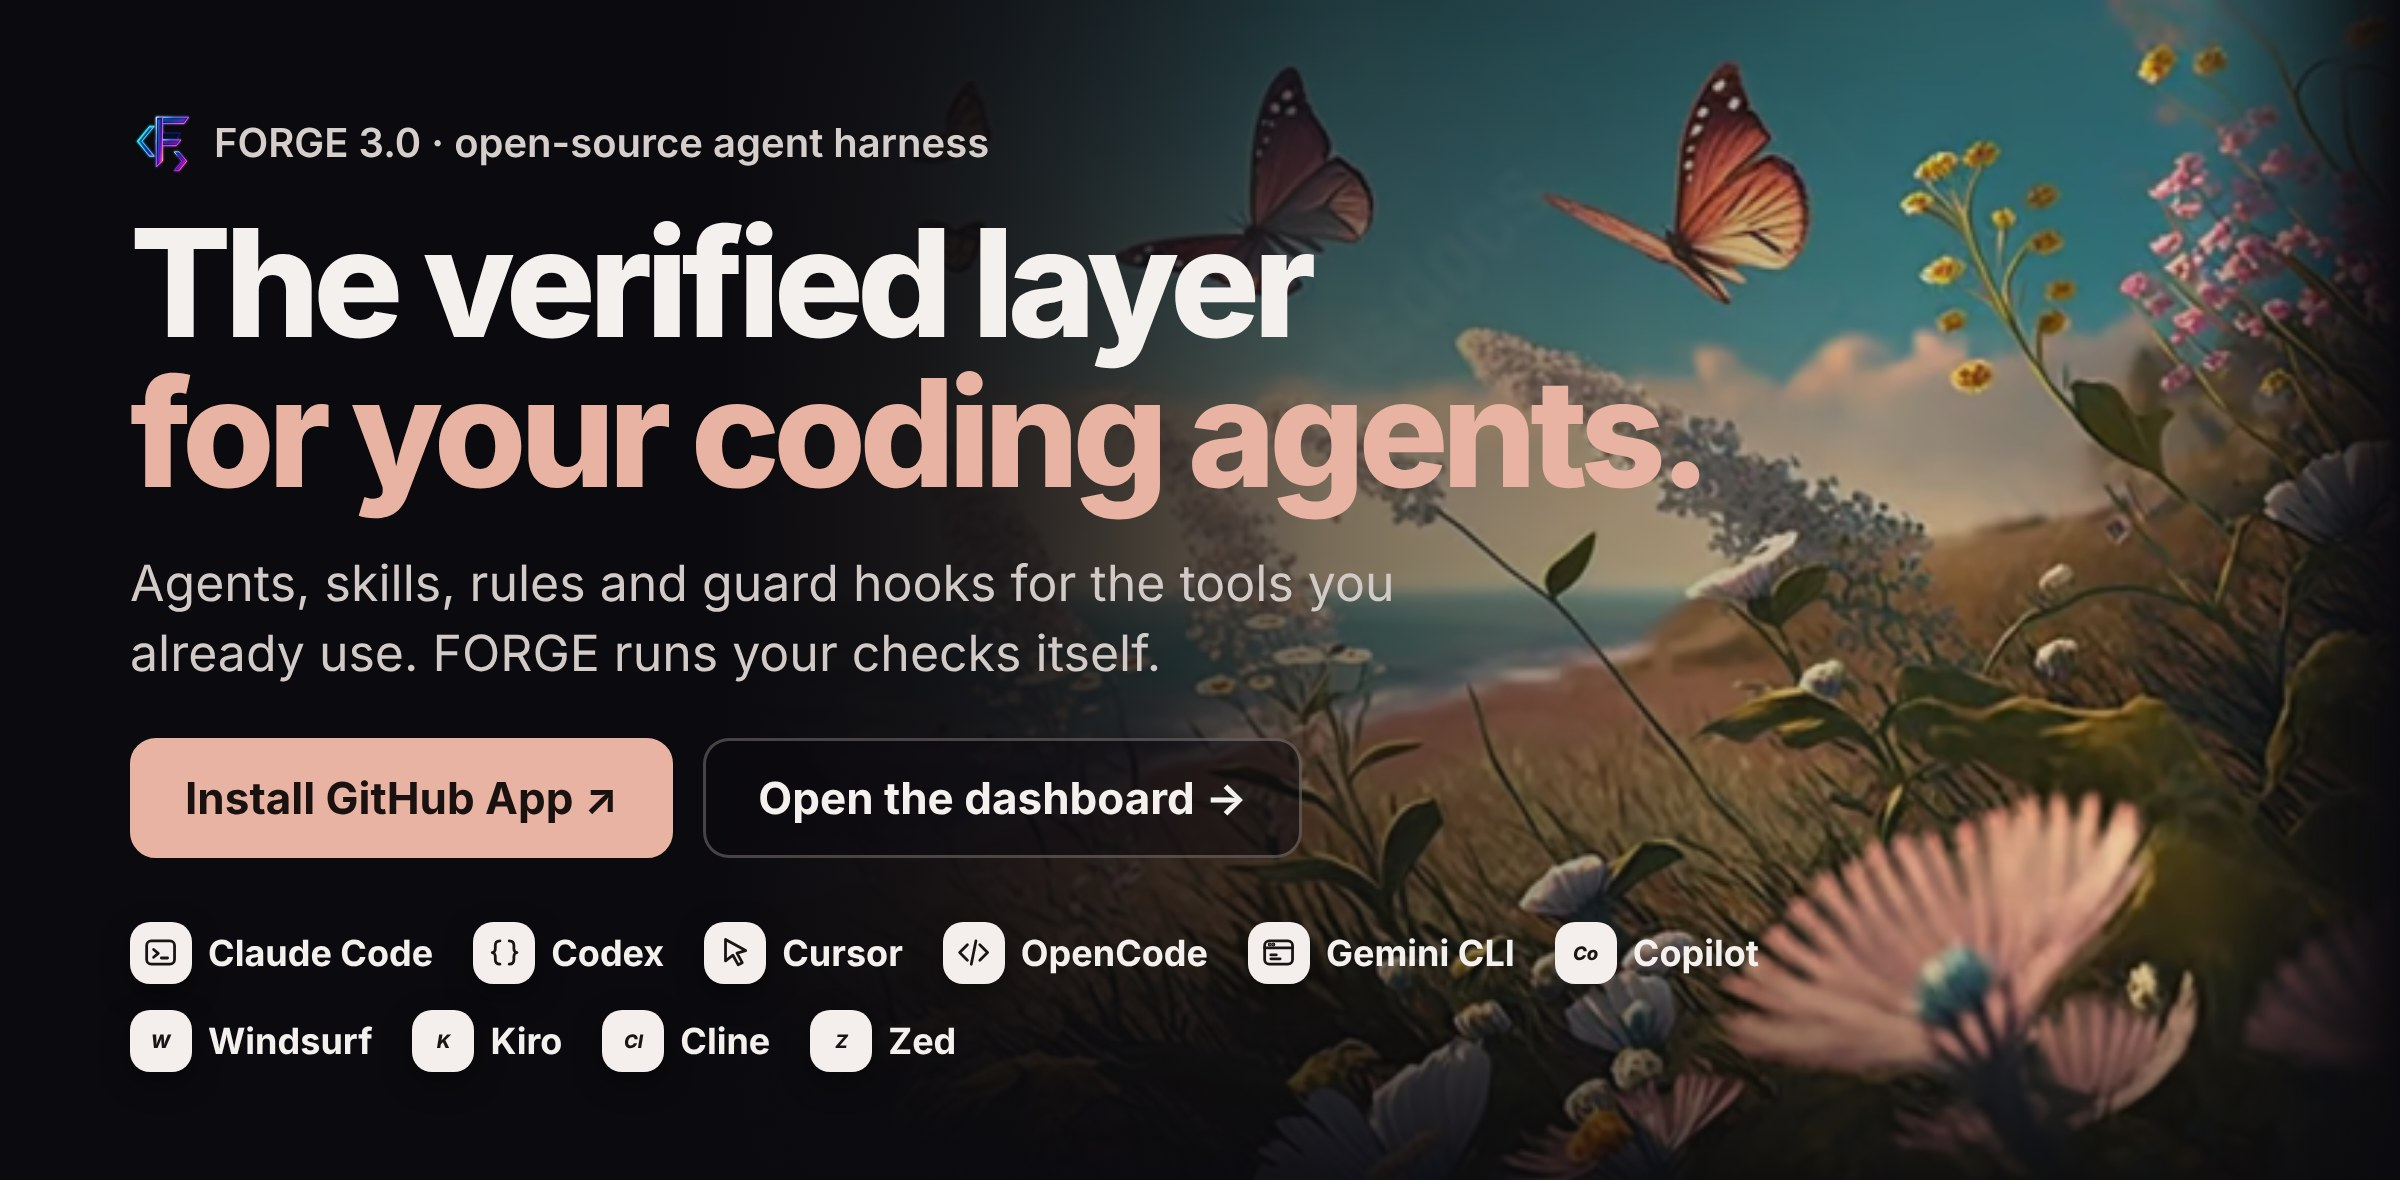
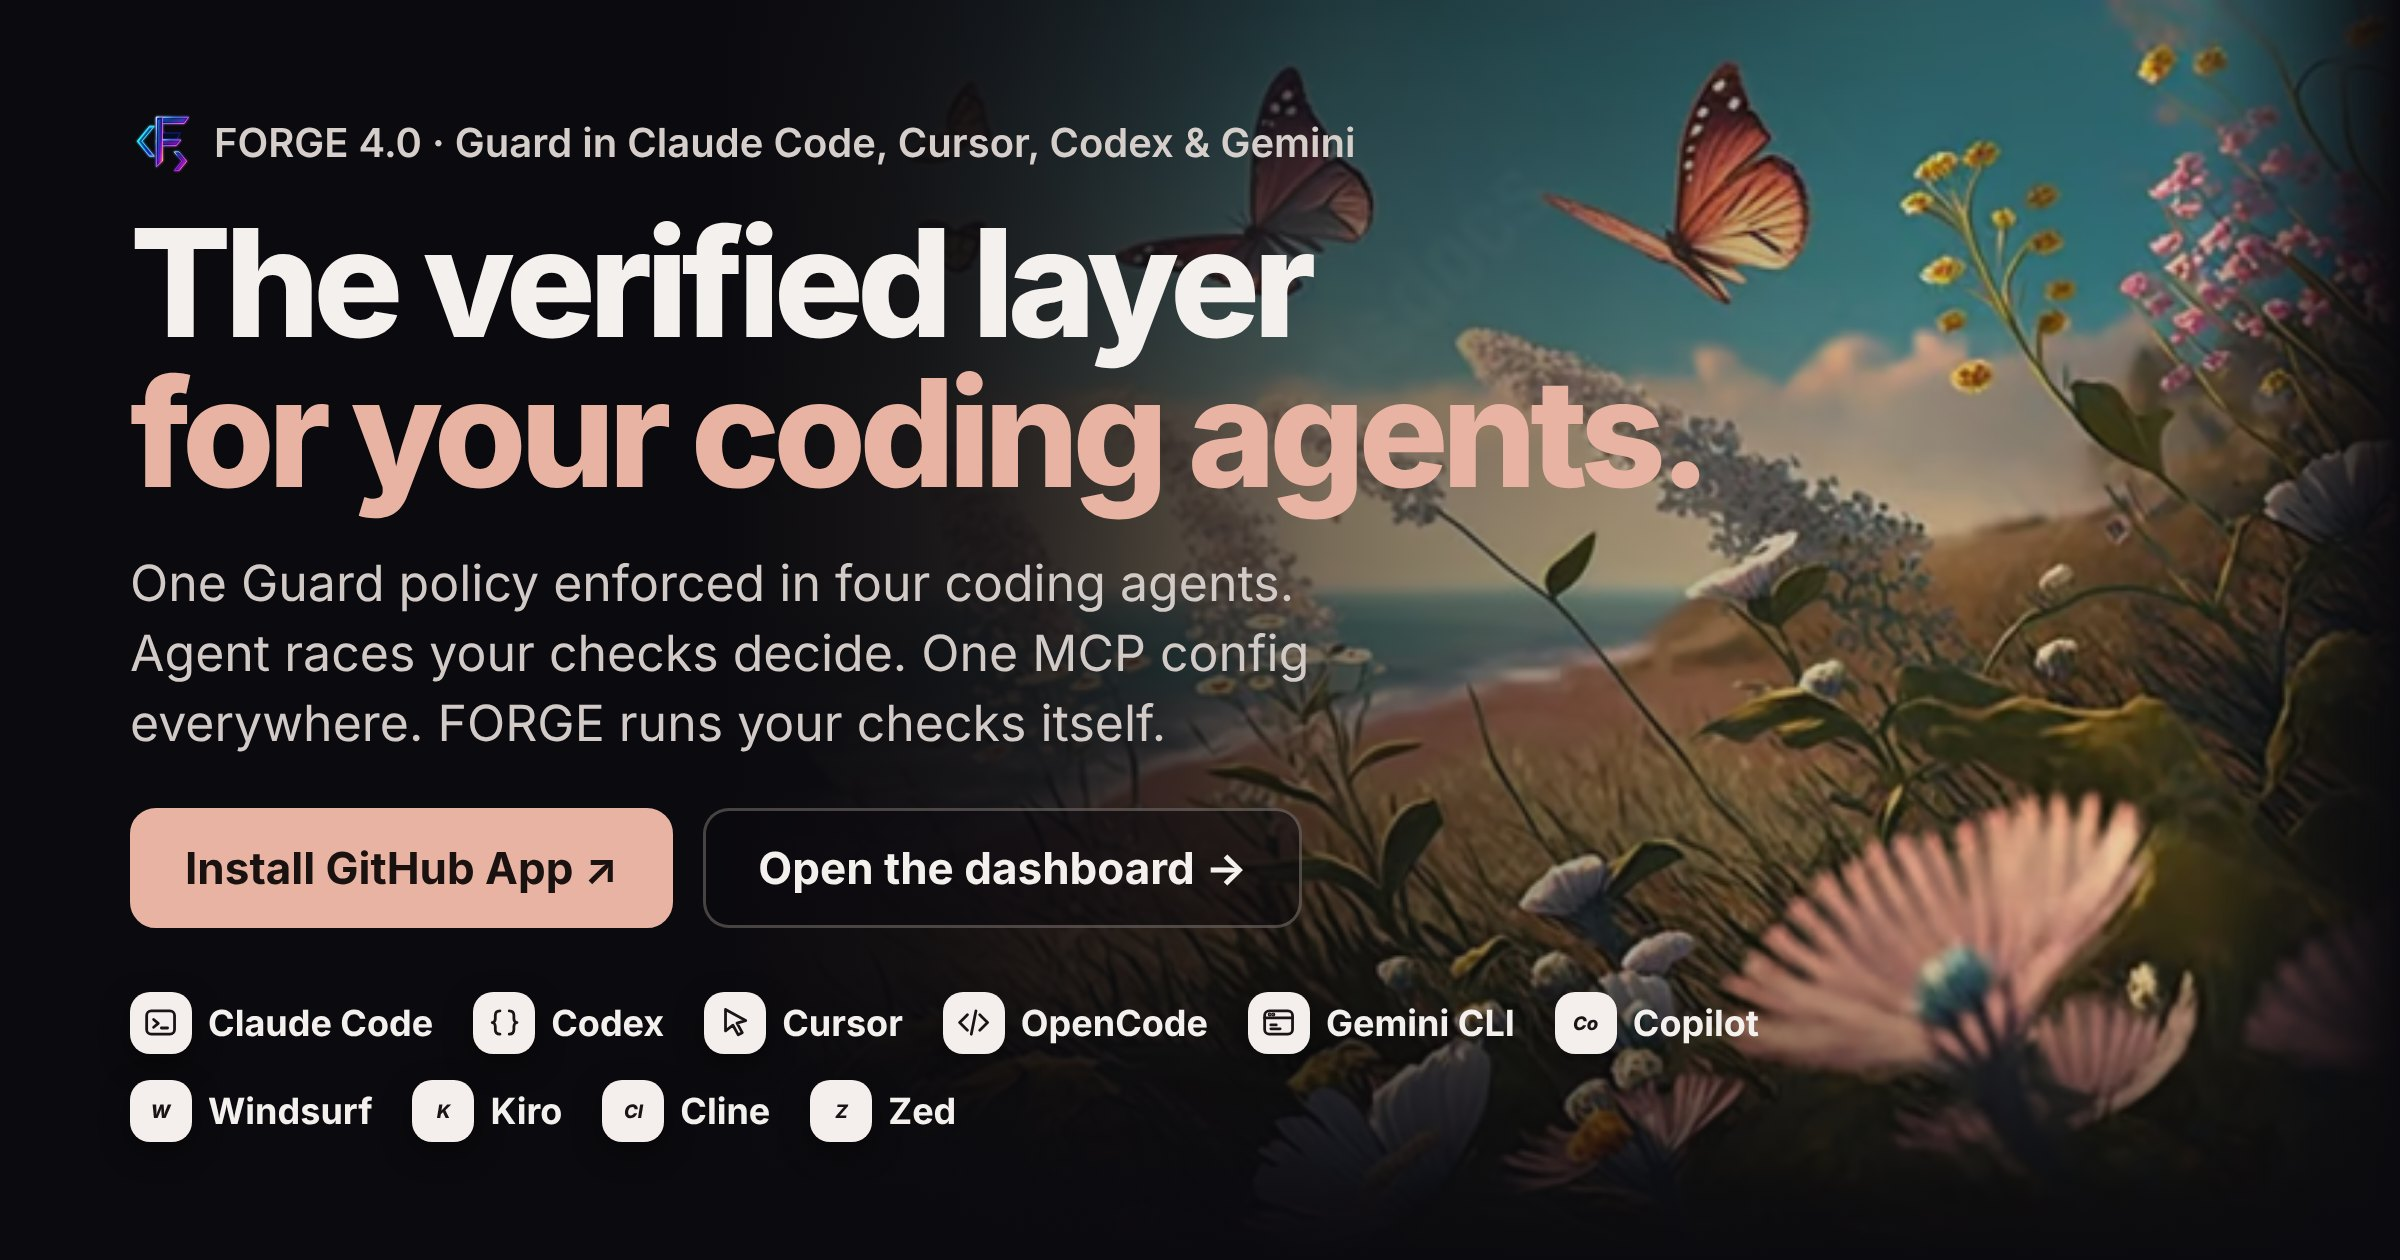
docs: README for 4.0, with a highlights grid, a 60-second quick start and a new hero
- The hero image says 4.0 and leads with Guard in four tools
- Highlights grid linking to every major feature
- "Quick start in 60 seconds" with status, guard, consult, mcp and race
- The section nav covers Guard, race, MCP and context
- The MCP tool table lists the memory, Shield, Guard, consult and
  context tools, and states the one write the server can do

Claude-Session: https://claude.ai/code/session_017br8UhEu5cmXZumuQXKyPZ

Changed region(s): [[0.0312, 0.061, 1.0, 1.0], [0.875, 0.0305, 0.9062, 0.0915]]

diff --git a/README.md b/README.md
@@ -1,7 +1,7 @@
 <!-- FORGE: the verified layer for your coding agents -->
 
 <p align="center">
-  <a href="https://forge-ecc.vercel.app/"><img src="docs/forge-hero.jpg" alt="FORGE: the verified layer for your coding agents. 41 agents, 51 skills, 60 Shield rules, 10 harnesses." width="100%" /></a>
+  <a href="https://forge-ecc.vercel.app/"><img src="docs/forge-hero.jpg" alt="FORGE 4.0: the verified layer for your coding agents. One Guard policy enforced in Claude Code, Cursor, Codex and Gemini CLI. 49 agents, 76 skills, 60 Shield rules, 10 harnesses." width="100%" /></a>
 </p>
 
 <p align="center">
@@ -49,12 +49,14 @@
 
 <p align="center">
   <a href="#install-forge">Install</a> ·
+  <a href="#quick-start-in-60-seconds">Quick start</a> ·
   <a href="#why-forge">Why FORGE</a> ·
-  <a href="#how-forge-works">How it works</a> ·
-  <a href="#harness-scorecard">Scorecard</a> ·
+  <a href="#runtime-hooks-guard-and-memory">Guard</a> ·
+  <a href="#agent-race">Agent race</a> ·
+  <a href="#mcp-sync">MCP sync</a> ·
+  <a href="#context-budget">Context</a> ·
   <a href="#forge-shield">Shield</a> ·
   <a href="#verified-loop">Verified loop</a> ·
-  <a href="#instincts-and-continuous-learning">Instincts</a> ·
   <a href="#github-app-and-control-center">Control Center</a> ·
   <a href="#cli-reference">CLI</a>
 </p>
@@ -78,6 +80,24 @@ Install once, and every session in every harness follows the same process, with 
 
 FORGE is MIT-licensed and local-first. The CLI, hooks, Shield, memory and loop run entirely on your machine. The GitHub App and the hosted Control Center are optional.
 
+<table>
+  <tr>
+    <td width="33%" valign="top"><b>⛨ <a href="#runtime-hooks-guard-and-memory">Guard everywhere</a></b><br /><sub>One policy, enforced as native hooks in Claude Code, Cursor, Codex and Gemini CLI. Destructive commands, secret reads and unverified stops are blocked, and one log names the agent behind each block.</sub></td>
+    <td width="33%" valign="top"><b>🏁 <a href="#agent-race">Agent race</a></b><br /><sub>The same task for Claude, Codex and Gemini in isolated worktrees. Your checks rank them, and an agent that deletes tests can't win.</sub></td>
+    <td width="33%" valign="top"><b>✓ <a href="#verified-loop">Verified loop</a></b><br /><sub>Agents iterate until FORGE's own check run passes, with a receipt for every iteration and an integrity gate against gamed tests.</sub></td>
+  </tr>
+  <tr>
+    <td valign="top"><b>⇄ <a href="#mcp-sync">MCP sync</a></b><br /><sub>One pinned MCP config written for 7 tools in each tool's own format. Secrets stay as environment references.</sub></td>
+    <td valign="top"><b>◔ <a href="#context-budget">Context budget</a></b><br /><sub>What each tool loads before your first prompt, file by file, with the fix for each finding and a CI gate.</sub></td>
+    <td valign="top"><b>🛡 <a href="#forge-shield">Shield</a></b><br /><sub>60 rules for agent permissions, hooks, MCP, prompt injection, secrets and CI across 11 tools, with SARIF output.</sub></td>
+  </tr>
+  <tr>
+    <td valign="top"><b>📊 <a href="#harness-scorecard">Scorecard</a></b><br /><sub>A deterministic 0–90 readiness score where every point cites its evidence. Works as a CI gate.</sub></td>
+    <td valign="top"><b>🧠 <a href="#instincts-and-continuous-learning">Memory and instincts</a></b><br /><sub>Handoffs, decisions and learned habits with provenance. Nothing reaches an agent until a person approves it.</sub></td>
+    <td valign="top"><b>🖥 <a href="#github-app-and-control-center">Control Center</a></b><br /><sub>Fleet view, scorecard, Shield, context, MCP, memory, loops and PR risk for every repository.</sub></td>
+  </tr>
+</table>
+
 | Included | Count | What it gives you |
 |---|---:|---|
 | Agents | **49** | Planning, review, security, build repair, testing, docs, architecture, data, ML, mobile, payments and MCP specialists |
@@ -92,7 +112,7 @@ FORGE is MIT-licensed and local-first. The CLI, hooks, Shield, memory and loop r
 | MCP sync | **7 harnesses** | One pinned MCP config written in each tool's own format, without copying secrets |
 
 <p align="center">
-  <a href="https://forge-ecc.vercel.app/app/"><img src="docs/control-center.jpg" alt="FORGE Control Center: readiness scorecard, Shield, setup health, pull request risk, handoffs, instincts and loop receipts" width="100%" /></a>
+  <a href="https://forge-ecc.vercel.app/app/"><img src="docs/control-center.jpg" alt="FORGE Control Center: readiness, Shield, setup, pull requests, Guard, context budget, MCP servers, next actions, handoffs, instincts and loop receipts" width="100%" /></a>
   <br /><sub>FORGE Control Center (sample data)</sub>
 </p>
 
@@ -151,6 +171,20 @@ npm link   # puts `forge` on your PATH
 
 `forge uninstall .` removes only the FORGE files you did not edit and FORGE's managed blocks and hooks. Your own files and settings stay. Add `--dry-run` to preview it.
 </details>
+
+## Quick start in 60 seconds
+
+After installing, these five commands show most of what FORGE does:
+
+```bash
+forge status                                     # one screen: install, Guard, context, MCP and what to do next
+forge guard check "git push --force origin main" # ask Guard before an agent tries it
+forge consult "add e2e tests for checkout"       # the agents, skills and MCP servers for this task
+forge mcp add context7 playwright                # pinned servers, written for every tool you use
+forge race --goal "fix the failing test" --check "npm test" --agents claude,codex
+```
+
+Inside an agent, the same features are slash commands (`/forge:race`, `/forge:guard`, `/forge:consult`, `/forge:context-budget`) and MCP tools (`forge_guard_check`, `forge_consult`, `forge_context_budget`).
 
 ## Why FORGE
 
@@ -345,7 +379,7 @@ Always-follow standards. `common/` covers evidence, testing, security, git and d
 
 ### Hooks
 
-Runtime enforcement in Claude Code. FORGE Guard checks every tool call before it runs:
+Runtime enforcement in Claude Code, Cursor, Codex and Gemini CLI. FORGE Guard checks every tool call before it runs, using one policy for all four:
 
 ```json
 { "guard": { "rules": [{ "id": "USER-NO-PROD-DB", "decision": "deny", "pattern": "psql .*prod" }] } }
@@ -1044,8 +1078,13 @@ The current MCP server exposes nine bounded, read-only tools:
 | `forge_git_intelligence` | Analyze Git changes and impact |
 | `forge_list_agents` | List built-in and workspace agent roles |
 | `forge_create_review_plan` | Create a draft engineering review plan |
+| `forge_memory_search` / `forge_memory_add` | Search and save project memory with provenance |
+| `forge_shield_scan` | Run Shield on the workspace |
+| `forge_guard_check` | Ask Guard whether a command or file access would be allowed |
+| `forge_consult` | Find agents, skills, commands, rules and MCP servers for a task |
+| `forge_context_budget` | Measure what each tool loads before the first prompt |
 
-MCP workspace paths are constrained to the configured workspace root. Hidden paths, generated/dependency directories, secret-like filenames and symlinks are excluded or rejected. Reads are bounded. The MCP server does not expose arbitrary shell execution, project-file writes, patch application or test execution.
+MCP workspace paths are constrained to the configured workspace root. Hidden paths, generated/dependency directories, secret-like filenames and symlinks are excluded or rejected. Reads are bounded. The MCP server does not expose arbitrary shell execution, patch application or test execution. The only write is `forge_memory_add`, which appends to `.forge/memory.json` and rejects credentials.
 
 Some workspace browsing/search operations require an explicit restricted-mode allowlist in `.forge/permissions.json`; the default proposal-only policy denies them.
 
